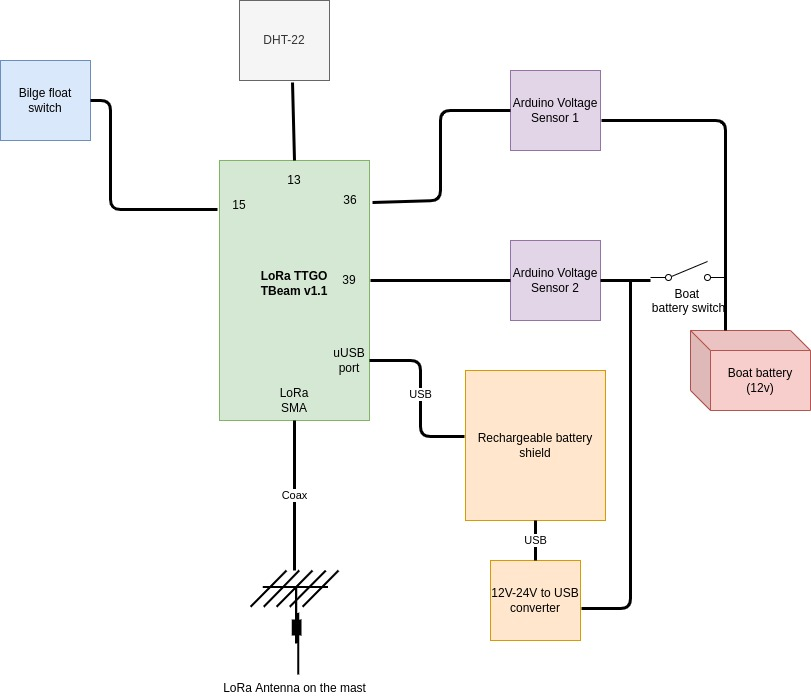
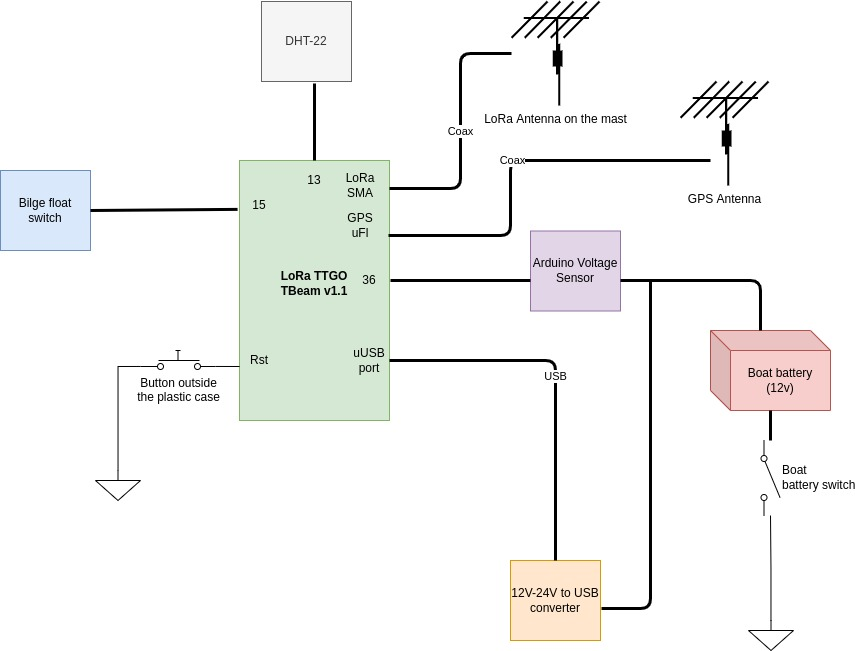
readme changes

diff --git a/README.md b/README.md
@@ -16,16 +16,20 @@ The main electrical components will be detached from the main battery of the boa
 
 ## Components
 
-* [TTGO Lora T-BEAM V1.1] (https://www.aliexpress.com/item/32875743018.html)
-* Float switch [like this one] (https://www.aliexpress.com/item/33004754249.html)
+* [TTGO Lora T-BEAM V1.1](https://www.aliexpress.com/item/32875743018.html)
+* Float switch [like this one](https://www.aliexpress.com/item/33004754249.html)
 * DHT-22 humidity and temperature sensor
-* 2x Arduino [voltage sensor](https://www.aliexpress.com/item/1005002235375607.html)
+* Arduino [voltage sensor](https://www.aliexpress.com/item/1005002235375607.html)
 * 12V-24V to USB converter.
-* Powerbank or battery shield (optional, only intended for more battery life) 
 * Plastic or fiber case of at least 28x35cm
 * Din rail
-* Li-ION Rechargeable batteries
-* Cable, connectors, zip ties...
+* Li-ION Rechargeable batteries (one at least)
+* SMA Male to Female Pigtals.
+* Wiring cable, connectors, zip ties...
+
+* Powerbank or battery shield (optional, only intended for more battery life) 
+* GPS Antenna (optional)
+
 
 # Software
 
